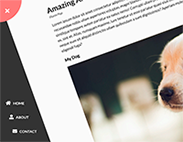
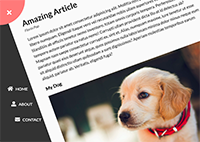
completed day 10 and landing page, optimized thumbnails

diff --git a/day10/style.css b/day10/style.css
@@ -1,0 +1,60 @@
+@import url('https://fonts.googleapis.com/css2?family=Roboto:wght@400;700&display=swap');
+
+* {
+  box-sizing: border-box;
+}
+
+body {
+  background-color: #686de0;
+  font-family: 'Roboto', sans-serif;
+  display: flex;
+  flex-direction: column;
+  align-items: center;
+  justify-content: center;
+  height: 100vh;
+  overflow: hidden;
+  margin: 0;
+  padding: 20px;
+}
+
+.container {
+  background-color: #fff;
+  border-radius: 10px;
+  box-shadow: 0 10px 20px rgba(0, 0, 0, 0.1), 0 6px 6px rgba(0, 0, 0, 0.1);
+  padding: 50px 20px;
+  text-align: center;
+  max-width: 100%;
+  width: 800px;
+}
+
+h3 {
+  margin: 0;
+  opacity: 0.5;
+  letter-spacing: 2px;
+}
+
+.joke {
+  font-size: 30px;
+  letter-spacing: 1px;
+  line-height: 40px;
+  margin: 50px auto;
+  max-width: 600px;
+}
+
+.btn {
+  background-color: #9f68e0;
+  color: #fff;
+  border: 0;
+  border-radius: 10px;
+  box-shadow: 0 10px 20px rgba(0, 0, 0, 0.1), 0 6px 6px rgba(0, 0, 0, 0.1);
+  padding: 14px 40px;
+  font-size: 16px;
+  cursor: pointer;
+}
+.btn:active {
+  transform: scale(0.98);
+}
+
+.btn:focus {
+  outline: 0;
+}

diff --git a/day10/script.js b/day10/script.js
@@ -1,0 +1,31 @@
+const jokeEl = document.getElementById('joke')
+const jokeBtn = document.getElementById('jokebtn')
+
+jokeBtn.addEventListener('click', generateJoke)
+
+generateJoke()
+
+//Using async/await
+async function generateJoke() {
+  const config = {
+    headers: {
+      Accept: 'application/json',
+    },
+  }
+  const res = await fetch('https://icanhazdadjoke.com', config)
+  const data = await res.json()
+  jokeEl.innerHTML = data.joke
+}
+// Using .then
+// function generateJoke() {
+//   const config = {
+//     headers: {
+//       Accept: 'application/json',
+//     },
+//   }
+//   fetch('https://icanhazdadjoke.com', config)
+//     .then((res) => res.json())
+//     .then((data) => {
+//       jokeEl.innerHTML = data.joke
+//     })
+// }

diff --git a/day10/index.html b/day10/index.html
@@ -1,0 +1,18 @@
+<!DOCTYPE html>
+<html lang="fr">
+  <head>
+    <meta charset="UTF-8" />
+    <meta name="viewport" content="width=device-width, initial-scale=1.0" />
+    <title>Dad Jokes</title>
+    <meta name="description" content="" />
+    <link rel="stylesheet" href="style.css" />
+  </head>
+  <body>
+    <div class="container">
+      <h3>Endless dad jokes</h3>
+      <div id="joke" class="joke">//jokes goes here</div>
+      <button id="jokebtn" class="btn">Get another joke</button>
+    </div>
+    <script src="script.js"></script>
+  </body>
+</html>

diff --git a/index.html b/index.html
@@ -52,8 +52,12 @@
         <img src="img/9-SoundBoard.png" alt="Day 9 Sound Board" />
         <p>Day 9 Sound Board</p>
       </a>
+      <a href="day10/index.html">
+        <img src="img/10-Dad_jokes.png" alt="Day 10 Dad Jokes" />
+        <p>Day 10 Dad Jokes</p>
+      </a>
     </div>
 
-    <script src="script.js"></script>
+    <!-- <script src="script.js"></script> -->
   </body>
 </html>

diff --git a/style.css b/style.css
@@ -11,7 +11,7 @@ body {
   align-items: center;
   justify-content: center;
   height: 100vh;
-  overflow: hidden;
+  /* overflow: hidden; */
   margin: 0;
 }
 
